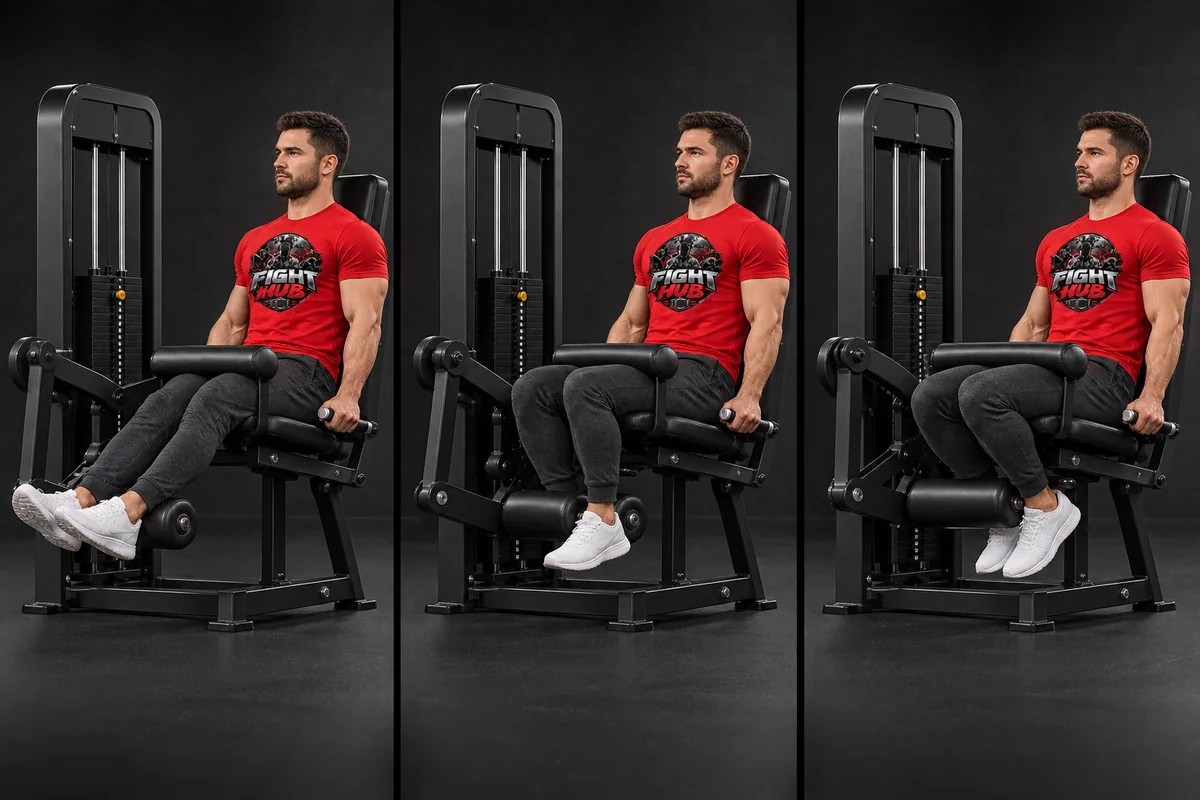
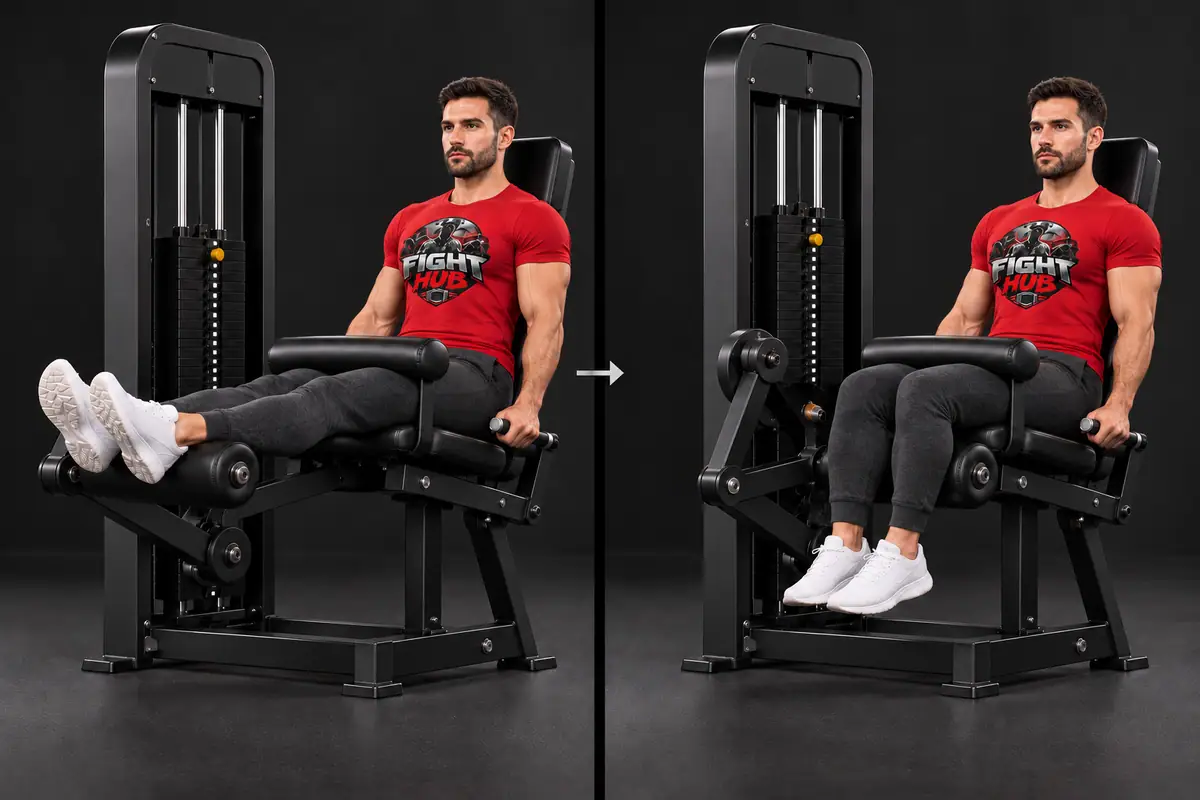
Pictures complete: every exercise and drill has men's and women's versions (v36)
Checked and added: barbell bench press (men and women), leg curl (men,
remade; women), and the women's clinch knees, elbows, high kick and front
kick. All 182 pictures now have both versions.

diff --git a/app/index.html b/app/index.html
@@ -13,10 +13,10 @@
 <link rel="manifest" href="manifest.webmanifest">
 <link rel="icon" type="image/png" sizes="192x192" href="icons/icon-192.png">
 <link rel="apple-touch-icon" href="icons/apple-touch-icon.png">
-<link rel="stylesheet" href="base.css?v=35">
-<link rel="stylesheet" href="glass.css?v=35">
-<link rel="stylesheet" href="training.css?v=35">
-<link rel="stylesheet" href="app.css?v=35">
+<link rel="stylesheet" href="base.css?v=36">
+<link rel="stylesheet" href="glass.css?v=36">
+<link rel="stylesheet" href="training.css?v=36">
+<link rel="stylesheet" href="app.css?v=36">
 </head>
 <body>
 <div class="app">
@@ -39,37 +39,37 @@
 </dialog>
 
 <script src="config.js"></script>
-<script src="i18n.js?v=35"></script>
-<script src="icons.js?v=35"></script>
-<script src="core.js?v=35"></script>
-<script src="training-data.js?v=35"></script>
-<script src="exercise-content.js?v=35"></script>
-<script src="exercise-media.js?v=35"></script>
-<script src="female-media.js?v=35"></script>
-<script src="body-model.js?v=35"></script>
-<script src="training.js?v=35"></script>
-<script src="interval-model.js?v=35"></script>
-<script src="conditioning-model.js?v=35"></script>
-<script src="hiit.js?v=35"></script>
-<script src="guided-model.js?v=35"></script>
-<script src="guided.js?v=35"></script>
-<script src="exercise-experience.js?v=35"></script>
-<script src="mobility.js?v=35"></script>
-<script src="membership-model.js?v=35"></script>
-<script src="membership.js?v=35"></script>
-<script src="routine-model.js?v=35"></script>
-<script src="routine.js?v=35"></script>
-<script src="exercise-navigation.js?v=35"></script>
-<script src="fight-data.js?v=35"></script>
-<script src="fight.js?v=35"></script>
-<script src="journal.js?v=35"></script>
-<script src="account.js?v=35"></script>
-<script src="premium.js?v=35"></script>
-<script src="retention.js?v=35"></script>
-<script src="recap.js?v=35"></script>
-<script src="coach.js?v=35"></script>
-<script src="reminders.js?v=35"></script>
-<script src="bodyplan.js?v=35"></script>
-<script src="shell.js?v=35"></script>
+<script src="i18n.js?v=36"></script>
+<script src="icons.js?v=36"></script>
+<script src="core.js?v=36"></script>
+<script src="training-data.js?v=36"></script>
+<script src="exercise-content.js?v=36"></script>
+<script src="exercise-media.js?v=36"></script>
+<script src="female-media.js?v=36"></script>
+<script src="body-model.js?v=36"></script>
+<script src="training.js?v=36"></script>
+<script src="interval-model.js?v=36"></script>
+<script src="conditioning-model.js?v=36"></script>
+<script src="hiit.js?v=36"></script>
+<script src="guided-model.js?v=36"></script>
+<script src="guided.js?v=36"></script>
+<script src="exercise-experience.js?v=36"></script>
+<script src="mobility.js?v=36"></script>
+<script src="membership-model.js?v=36"></script>
+<script src="membership.js?v=36"></script>
+<script src="routine-model.js?v=36"></script>
+<script src="routine.js?v=36"></script>
+<script src="exercise-navigation.js?v=36"></script>
+<script src="fight-data.js?v=36"></script>
+<script src="fight.js?v=36"></script>
+<script src="journal.js?v=36"></script>
+<script src="account.js?v=36"></script>
+<script src="premium.js?v=36"></script>
+<script src="retention.js?v=36"></script>
+<script src="recap.js?v=36"></script>
+<script src="coach.js?v=36"></script>
+<script src="reminders.js?v=36"></script>
+<script src="bodyplan.js?v=36"></script>
+<script src="shell.js?v=36"></script>
 </body>
 </html>

diff --git a/app/female-media.js b/app/female-media.js
@@ -8,16 +8,16 @@ const FemaleMedia = {
   movements: new Set([
     '90-90', 'active-front-raise', 'active-side-raise', 'ankle', 'arm-circles', 'assisted-pull', 'b-stance-thrust', 'back-extension',
     'back-squat', 'backpack-hinge', 'backpack-row', 'backpack-squat', 'bag-work', 'band-curl', 'band-row', 'band-walk',
-    'barbell-curl', 'barbell-row', 'bear-crawl', 'bear-hug-escape', 'bench-press', 'biceps-curl', 'bike', 'bird-dog', 'body-shots',
+    'barbell-bench', 'barbell-curl', 'barbell-row', 'bear-crawl', 'bear-hug-escape', 'bench-press', 'biceps-curl', 'bike', 'bird-dog', 'body-shots',
     'bottle-carry', 'bottle-curl', 'bottle-raise', 'breakfall', 'bridge', 'bridge-march', 'bridge-roll', 'bulgarian-split',
     'burpee', 'butt-kicks', 'butterfly-stretch', 'cable-kickback', 'cable-row', 'calf', 'calf-stretch', 'carry', 'chamber-hold',
-    'chair-rise', 'check', 'chest-machine', 'chest-stretch', 'clamshell', 'cossack', 'couch-stretch', 'cross',
-    'curtsy-lunge', 'db-row', 'dead-bug', 'deadlift', 'dip', 'donkey-kick', 'easy-run', 'fence', 'fire-hydrant',
-    'floor-press', 'frog', 'frog-pump', 'front-split-slide', 'glute-stretch', 'goblet', 'granby-roll', 'ground-strikes', 'gyaku-zuki',
-    'half-split', 'hammer-curl', 'hamstring-stretch', 'hand-release-press', 'hard-run', 'heel-digs', 'heel-taps', 'high-knees',
+    'chair-rise', 'check', 'chest-machine', 'clinch-knees', 'chest-stretch', 'clamshell', 'cossack', 'couch-stretch', 'cross',
+    'curtsy-lunge', 'db-row', 'dead-bug', 'deadlift', 'dip', 'donkey-kick', 'elbows', 'easy-run', 'fence', 'fire-hydrant',
+    'floor-press', 'frog', 'frog-pump', 'front-kick', 'front-split-slide', 'glute-stretch', 'goblet', 'granby-roll', 'ground-strikes', 'gyaku-zuki',
+    'half-split', 'hammer-curl', 'hamstring-stretch', 'hand-release-press', 'hard-run', 'heel-digs', 'heel-taps', 'high-kick', 'high-knees',
     'hill-sprint', 'hinge', 'hip-abduction', 'hip-flexor-stretch', 'hip-openers', 'hip-thrust', 'horse-bow', 'horse-stance',
     'inchworm', 'incline-press', 'jab', 'jog-in-place', 'karate-blocks', 'kb-swing', 'knee-straight', 'kneeling-press',
-    'lat-pull', 'lateral-lunge', 'lateral-raise', 'lead-hook', 'leg-press', 'leg-swings-front', 'leg-swings-side', 'level-change',
+    'lat-pull', 'lateral-lunge', 'lateral-raise', 'lead-hook', 'leg-curl', 'leg-press', 'leg-swings-front', 'leg-swings-side', 'level-change',
     'lizard', 'low-kick', 'march', 'mountain-climber', 'mt-stance', 'oi-zuki', 'overhead-press', 'palm-strike',
     'pancake', 'parry', 'pivot', 'plank', 'plank-tap', 'plank-up-down', 'pnf-adductor', 'pnf-hamstring',
     'prone-w', 'pull-through', 'pull-up', 'punch-out', 'push-up', 'quad-stretch', 'rapid-kicks', 'rdl',

diff --git a/app/sw.js b/app/sw.js
@@ -3,14 +3,14 @@
    fetched fresh when online and falls back to the last copy offline.
    Bump VERSION whenever app files change so phones pick up the update. */
 
-const VERSION = 'fight-hub-v35';
+const VERSION = 'fight-hub-v36';
 const SHELL = [
   './', 'index.html', 'manifest.webmanifest',
-  'base.css?v=35', 'glass.css?v=35', 'training.css?v=35', 'app.css?v=35',
-  'config.js', 'i18n.js?v=35', 'icons.js?v=35', 'core.js?v=35', 'training-data.js?v=35', 'exercise-content.js?v=35', 'exercise-media.js?v=35', 'female-media.js?v=35', 'body-model.js?v=35',
-  'training.js?v=35', 'interval-model.js?v=35', 'conditioning-model.js?v=35', 'hiit.js?v=35', 'guided-model.js?v=35', 'guided.js?v=35',
-  'exercise-experience.js?v=35', 'mobility.js?v=35', 'membership-model.js?v=35', 'membership.js?v=35', 'routine-model.js?v=35',
-  'routine.js?v=35', 'exercise-navigation.js?v=35', 'fight-data.js?v=35', 'fight.js?v=35', 'journal.js?v=35', 'account.js?v=35', 'premium.js?v=35', 'retention.js?v=35', 'recap.js?v=35', 'coach.js?v=35', 'reminders.js?v=35', 'bodyplan.js?v=35', 'shell.js?v=35',
+  'base.css?v=36', 'glass.css?v=36', 'training.css?v=36', 'app.css?v=36',
+  'config.js', 'i18n.js?v=36', 'icons.js?v=36', 'core.js?v=36', 'training-data.js?v=36', 'exercise-content.js?v=36', 'exercise-media.js?v=36', 'female-media.js?v=36', 'body-model.js?v=36',
+  'training.js?v=36', 'interval-model.js?v=36', 'conditioning-model.js?v=36', 'hiit.js?v=36', 'guided-model.js?v=36', 'guided.js?v=36',
+  'exercise-experience.js?v=36', 'mobility.js?v=36', 'membership-model.js?v=36', 'membership.js?v=36', 'routine-model.js?v=36',
+  'routine.js?v=36', 'exercise-navigation.js?v=36', 'fight-data.js?v=36', 'fight.js?v=36', 'journal.js?v=36', 'account.js?v=36', 'premium.js?v=36', 'retention.js?v=36', 'recap.js?v=36', 'coach.js?v=36', 'reminders.js?v=36', 'bodyplan.js?v=36', 'shell.js?v=36',
   'assets/fight-hub-logo.png', 'icons/icon-192.png', 'icons/apple-touch-icon.png'
 ];
 

diff --git a/app/exercise-media.js b/app/exercise-media.js
@@ -3,10 +3,8 @@ const ExerciseMedia=new Set(["chair-rise","wall-press","calf","side-leg","bottle
 ['hip-flexor-stretch','butterfly-stretch','half-split'].forEach(id=>ExerciseMedia.add(id));
 // Glutes and legs exercises (checked and approved 30 Sep 2026)
 ['band-walk', 'bulgarian-split', 'cable-kickback', 'curtsy-lunge', 'donkey-kick', 'hip-abduction', 'kb-swing', 'single-leg-bridge', 'single-leg-rdl', 'step-up', 'sumo-squat', 'walking-lunge', 'back-extension', 'b-stance-thrust', 'pull-through'].forEach(id=>ExerciseMedia.add(id));
-// Gym lifts (checked 2 Oct 2026; the barbell bench press picture is being redone)
+// Gym lifts (checked 2 Oct 2026; the barbell bench press was redone and added 3 Oct)
 ['back-squat', 'barbell-curl', 'barbell-row', 'deadlift', 'dip', 'overhead-press', 'pull-up'].forEach(id=>ExerciseMedia.add(id));
-// Withdrawn 3 Oct 2026 for a redo: the pad is on the front of the shins (a leg extension)
-ExerciseMedia.delete('leg-curl');
 // Redone and checked 3 Oct 2026
-['fire-hydrant', 'frog-pump'].forEach(id=>ExerciseMedia.add(id));
+['fire-hydrant', 'frog-pump', 'leg-curl', 'barbell-bench'].forEach(id=>ExerciseMedia.add(id));
 if(typeof module!=='undefined')module.exports=ExerciseMedia;

diff --git a/image-requests/REDO.md b/image-requests/REDO.md
@@ -1,35 +1,23 @@
-# Pictures: what's left (checked 3 October 2026)
+# Pictures: complete (checked 3 October 2026)
 
-Every picture in the app has been checked at full size for anatomy (arm and leg
-count, limb length, joints) and technique.
+All 182 exercise and drill pictures in the app now have a men's and a women's
+version. Every one was checked at full size for anatomy (arm and leg count,
+limb length, joints, arms starting at the shoulders) and technique, and the
+other machine pictures were re-checked for pad placement.
 
-These went in on 3 October:
-- women's dumbbell bench press;
-- the fire hydrant, men and women;
-- the frog pump, men and women;
-- the men's back extension;
-- the women's chamber hold.
+Added on 3 October:
+- barbell bench press (men and women);
+- leg curl (men and women; the men's had shown a leg extension and was remade);
+- dumbbell bench press (women);
+- fire hydrant (men and women);
+- frog pump (men and women);
+- back extension (men);
+- chamber hold, clinch knees, elbows, high kick and front kick (women).
 
-**Please don't remake anything that isn't listed here.**
+**Nothing is waiting to be made or remade.** Please don't remake any pictures
+unless a new request is added here.
 
-## 1. Redo (2)
-
-Remake each one with the same file name, using its prompt (`GYM-LIFTS-PROMPTS.md`, `WOMEN-PROMPTS.md`) plus the correction. **Before saving, count arms, legs, hands and equipment, and check that both arms come out of the shoulders.**
-
-| File | What's wrong | What it must show |
-|---|---|---|
-| `barbell-bench.png` (men) | The bar runs along the length of his body instead of across his chest. In the lowered pose his near hand is over his hips. In the raised pose his far arm comes out of his stomach. | **Copy the approved women's version (`barbell-bench-f.png`): the same camera angle and layout.** The bar runs **across** the chest, with both hands directly above the shoulders, just wider than shoulder width. Lowered: the bar touches the lower chest, with elbows under the bar. Raised: arms straight up over the shoulders. Both arms come out of the shoulders. |
-| `leg-curl.png` (men) | Same fault the women's version had: when his knees bend, the roller pad presses on the **front** of his shins and his feet are behind it. That's a leg extension. (Taken out of the app on 3 October.) | **Copy the approved women's version (`leg-curl-f.png`): the same machine, camera and two poses.** Straight legs: the pad behind the lower legs just above the heels. Knees bent to about 90°: the pad stays **behind the heels and lower calves**, pushed back under the seat, with his feet **in front of** the pad. |
-
-## 2. Waiting on a redo
-
-These women's pictures are approved. Each goes in as soon as the men's version above is fixed: `barbell-bench-f.png` and `leg-curl-f.png`.
-
-## 3. Not made yet: women's versions (4)
-
-`clinch-knees-f.png`, `elbows-f.png`, `high-kick-f.png` and `front-kick-f.png`. Their prompts are in `WOMEN-PROMPTS.md`, section 5.
-
-## Common faults to check before saving
+## For any future picture: faults to check before saving
 
 - Extra or missing arms, hands or dumbbells.
 - Arms or legs that are unnaturally long, or an arm that doesn't start at the shoulder.
